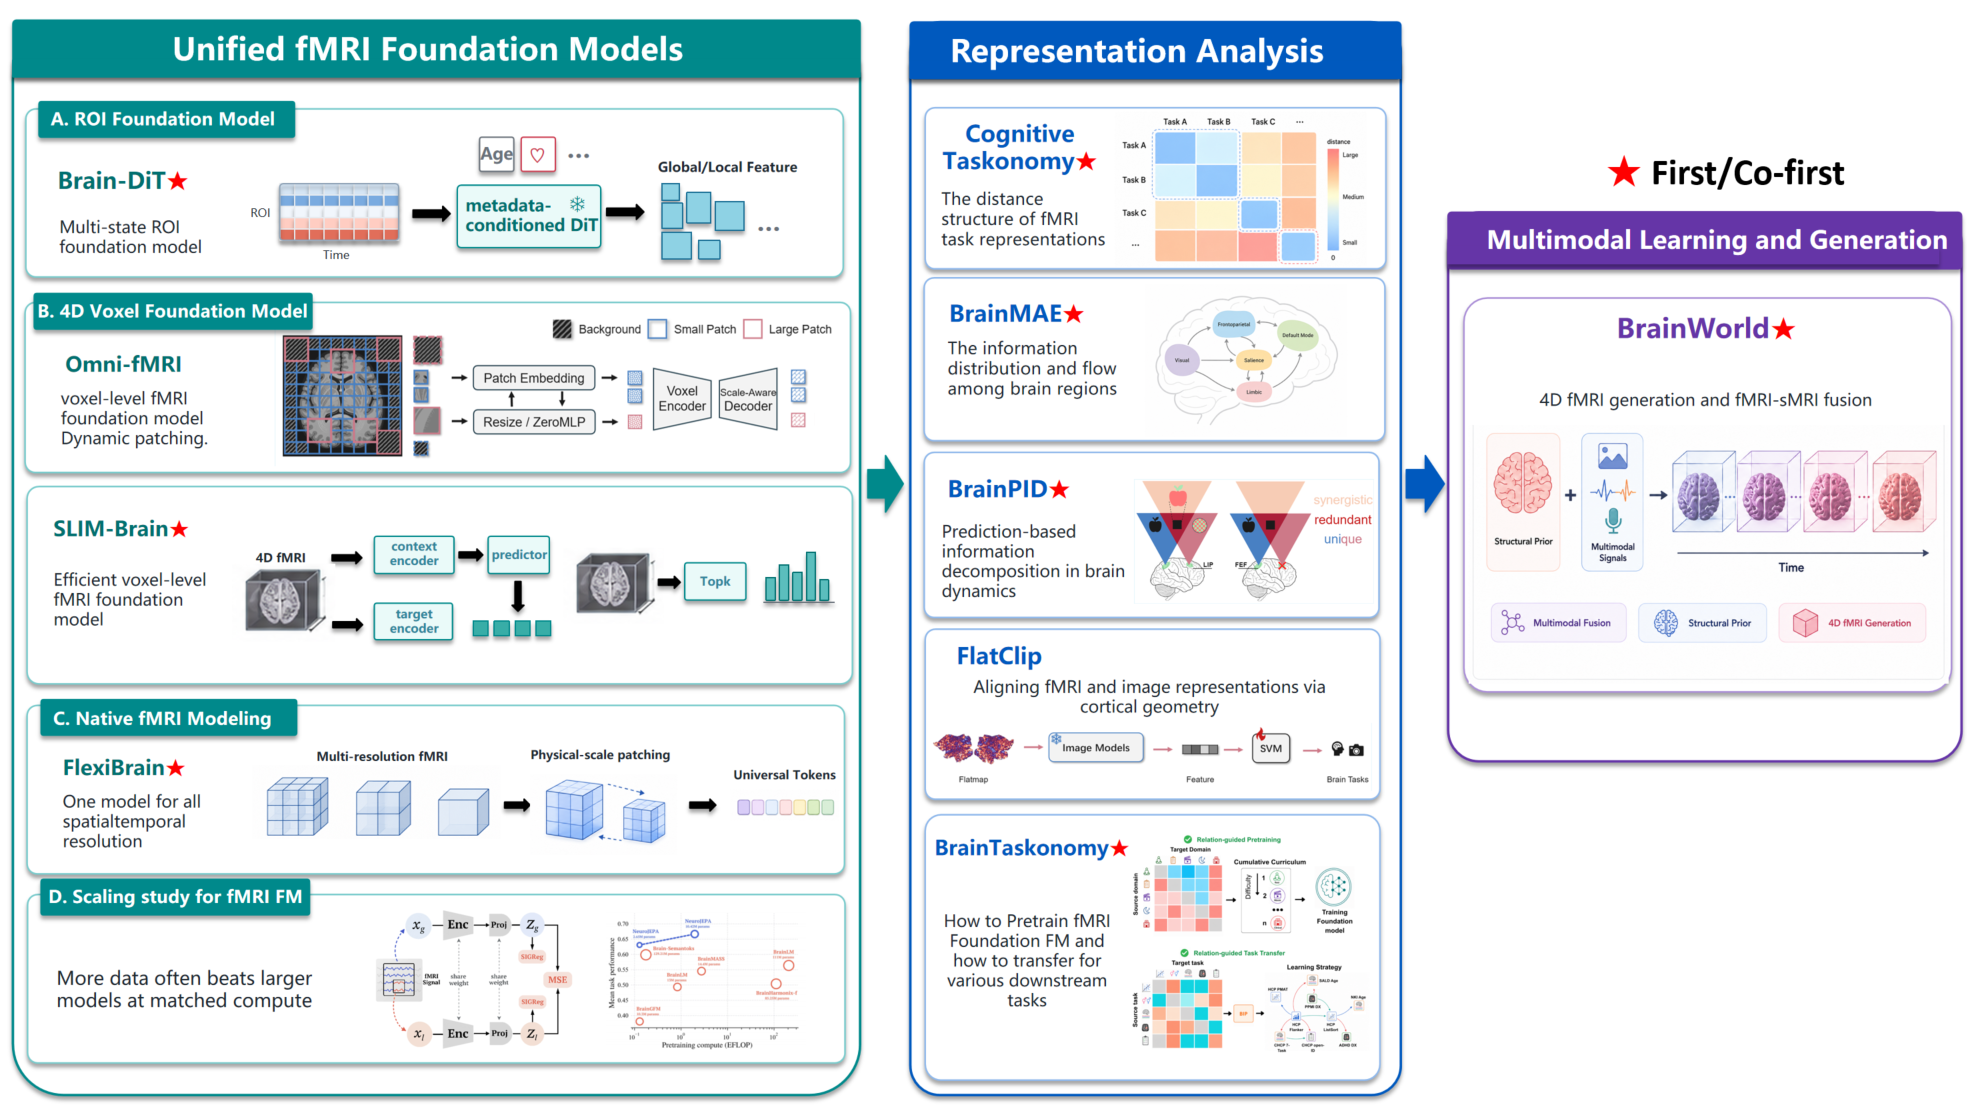
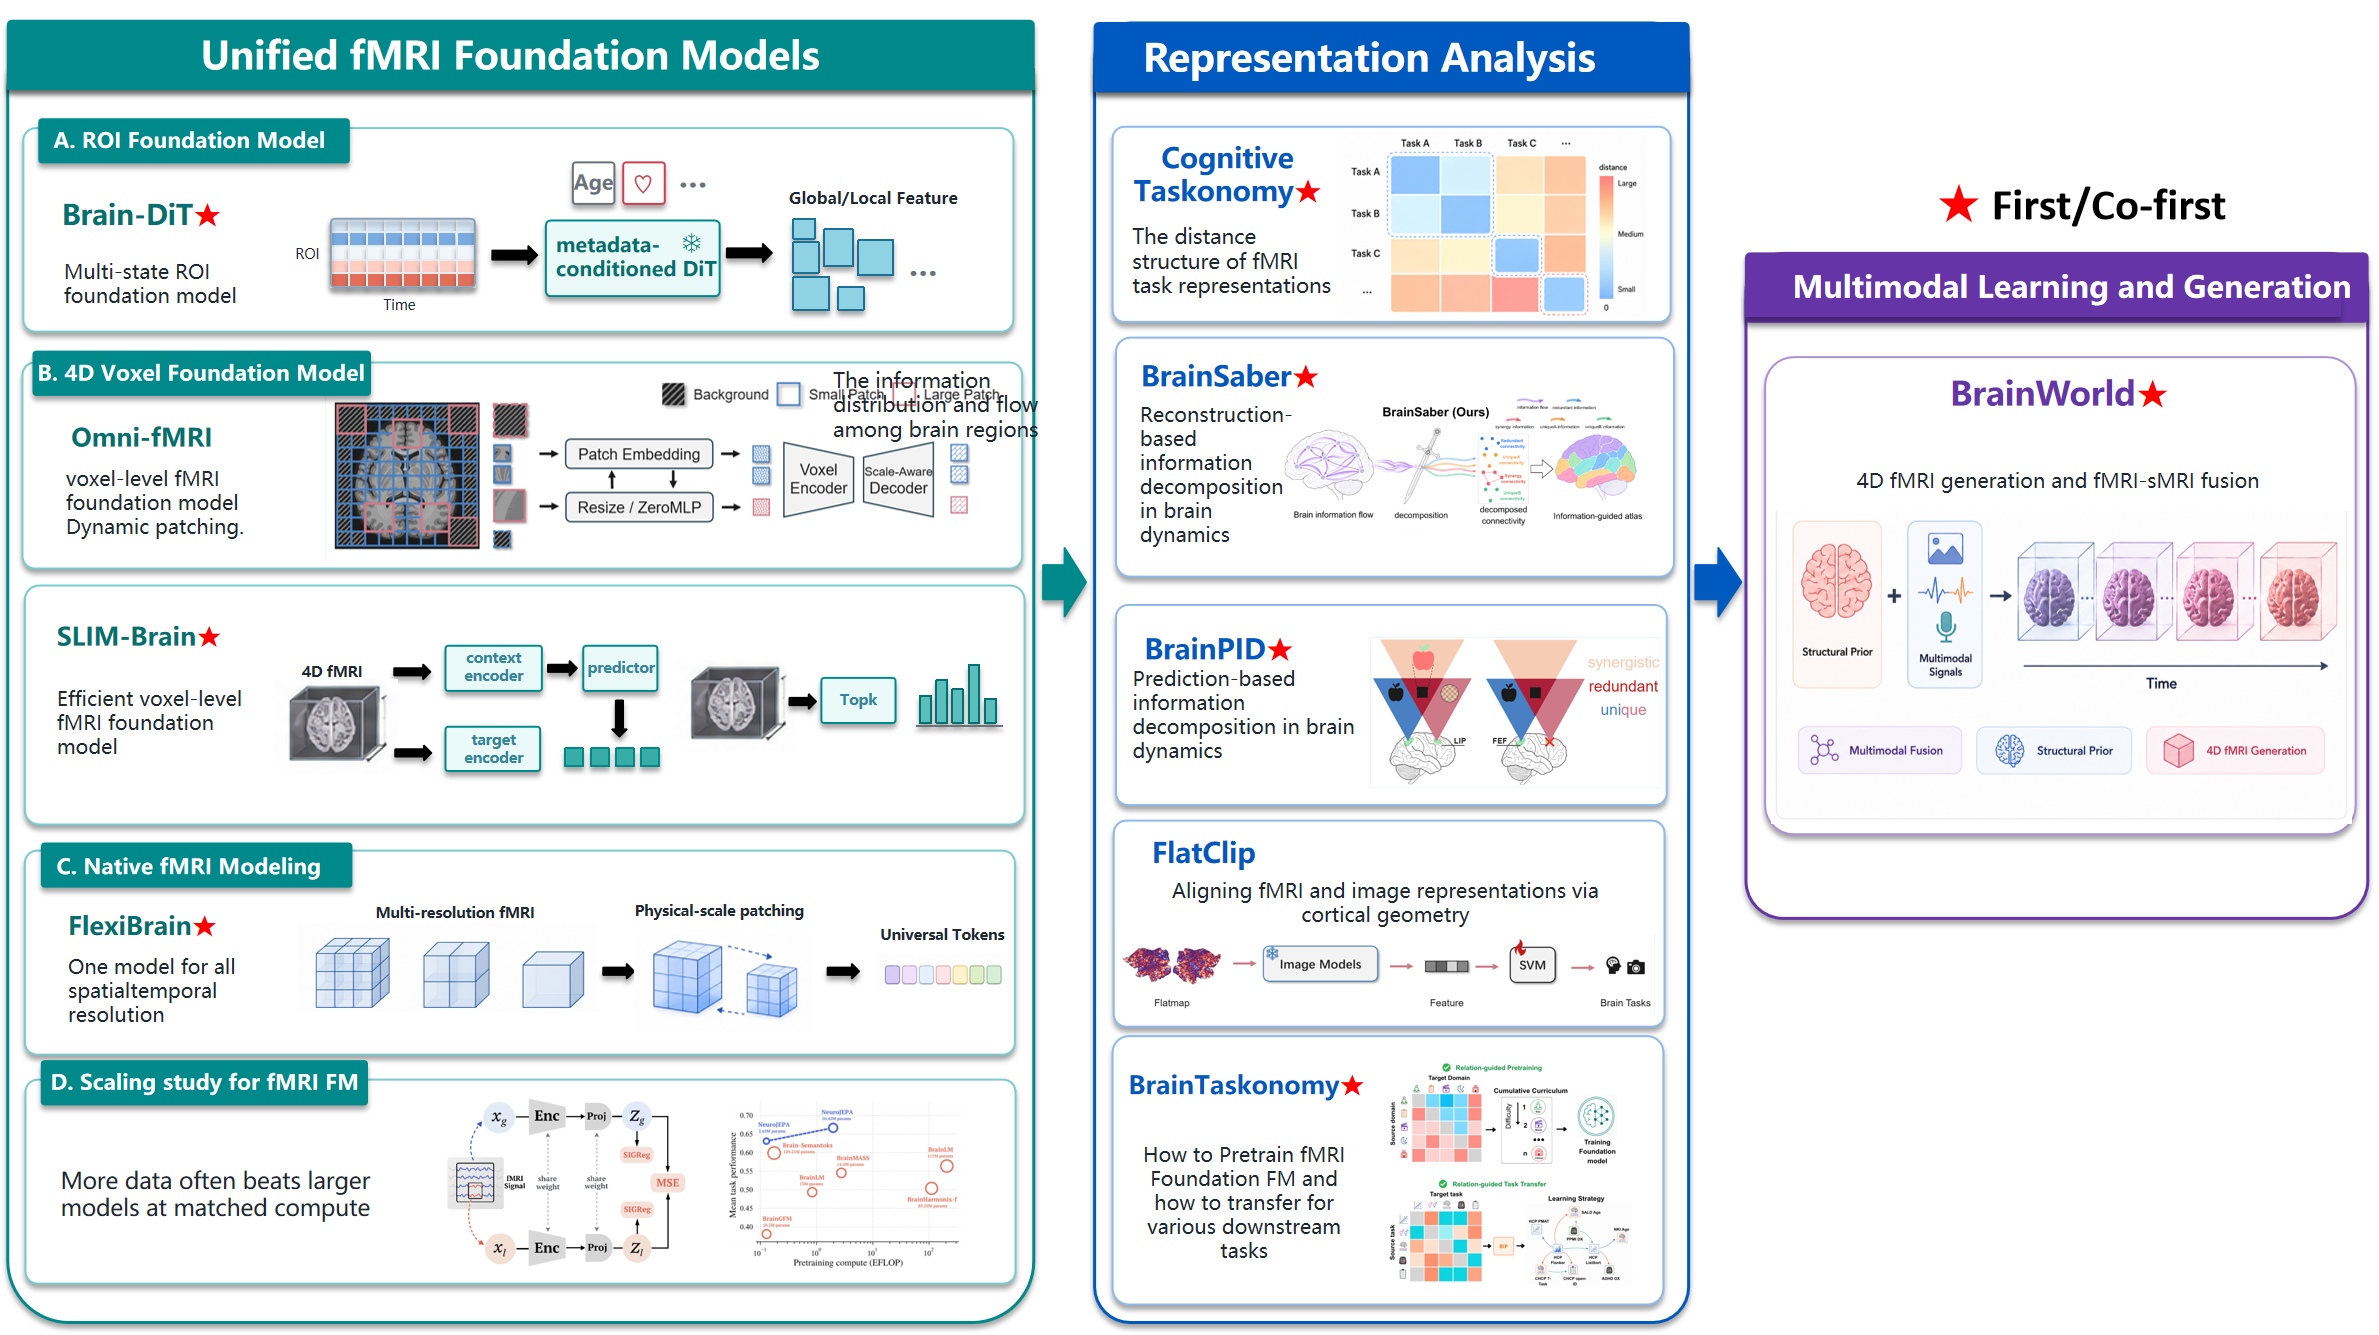
Update research line overview

Changed region(s): [[0.0, 0.0, 1.0, 1.0], [0.7745, 0.3379, 0.9604, 0.3686]]

diff --git a/index.html b/index.html
@@ -740,7 +740,7 @@
       <section class="section" id="research-line">
         <h2>Research Line</h2>
         <figure class="research-line-figure">
-          <img src="assets/research-line.png" alt="Research line overview for fMRI foundation models, representation analysis, and multimodal learning" loading="lazy">
+          <img src="assets/research-line.png?v=20260919" alt="Research line overview for fMRI foundation models, representation analysis, and multimodal learning" loading="lazy">
         </figure>
       </section>
 
